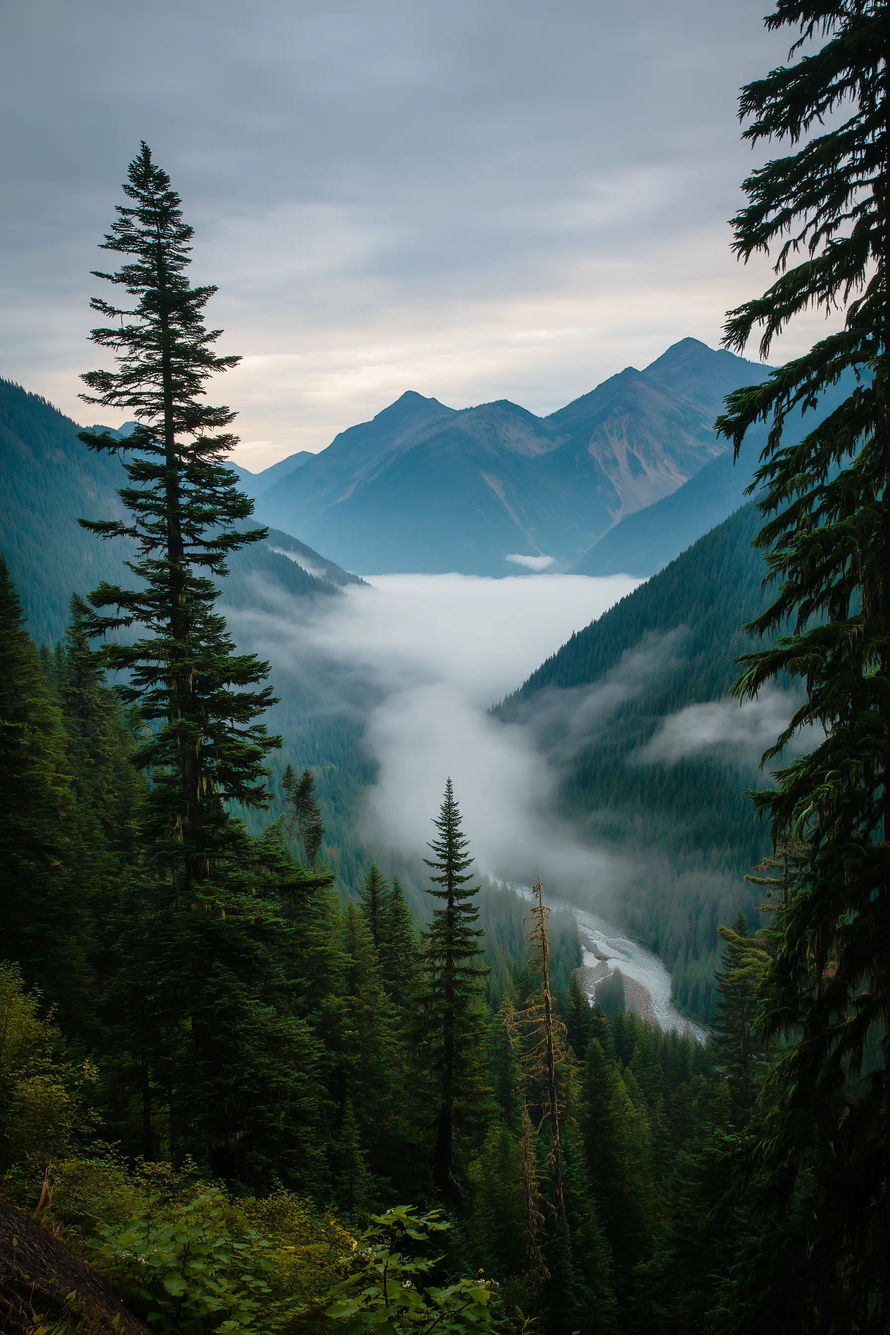
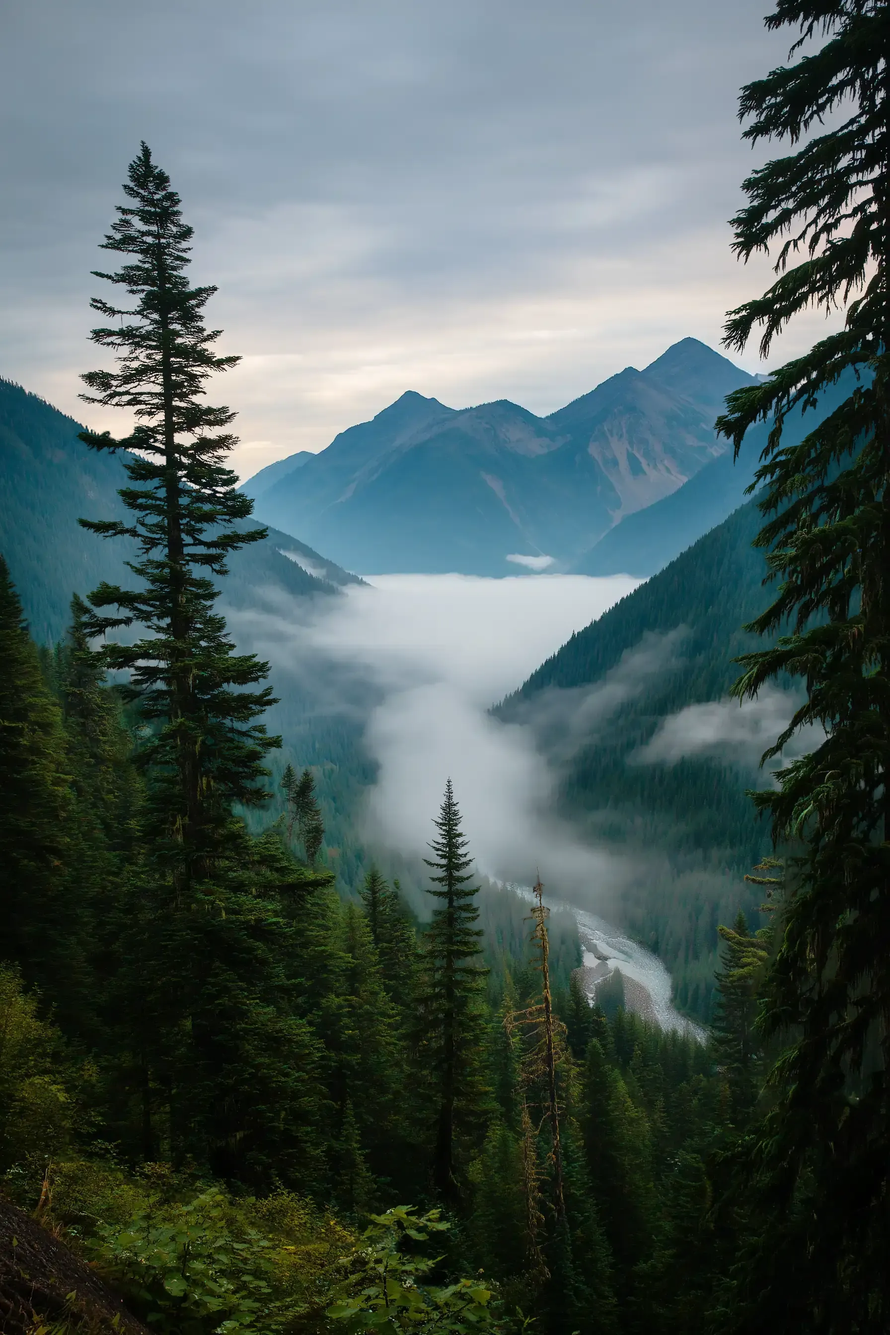
Flatten the overlook photo from its cutouts
valley.webp is now the far / mid / near cutouts stacked back together
(q80, 388 KB, still 1792x2688), so the first paint matches the layers
that replace it at rest and the swap doesn't show.

diff --git a/docs/ASSET-CREDITS.md b/docs/ASSET-CREDITS.md
@@ -4,7 +4,7 @@ Every image, video, sound and font in `public/` needs a row here before launch.
 
 | File | Source | Author | License | Status |
 | --- | --- | --- | --- | --- |
-| `public/images/valley.webp` | AI-generated with Midjourney (original `aerielmid.png`) | Site owner | Midjourney Terms of Service, paid plan (owner owns the output) | OK |
+| `public/images/valley.webp` | AI-generated with Midjourney (original `aerielmid.png`); now the far / mid / near cutouts below stacked back together, so the first paint matches the layers that replace it | Site owner | Midjourney Terms of Service, paid plan (owner owns the output) | OK |
 | `public/images/trail.webp` | AI-generated with Midjourney (original `alanrunningmid.png`) | Site owner | Midjourney Terms of Service, paid plan (owner owns the output) | OK |
 | `public/images/trail-depth.webp` | Depth map of `trail.webp`, made with `tools/depth-map.py` (Depth Anything V2 Base) | Site owner (derived) | Same as `trail.webp`; the model's output carries no extra terms | OK |
 | `public/images/valley-far.webp`, `valley-mid.webp`, `valley-near.webp` | Far / mid / near cutouts of `valley.webp` for the layered hero, made with `tools/hero-layers.py` (Depth Anything V2 Base for depth, ViTMatte for the cutouts). What the trees hid is repainted by the owner in Midjourney's Editor (plates in `tools/plates/`, not committed), blended with LaMa | Site owner (derived) | Same as `valley.webp` (Midjourney paid plan); ViTMatte and LaMa are Apache-2.0 and their output carries no extra terms | OK |
@@ -15,7 +15,7 @@ Every image, video, sound and font in `public/` needs a row here before launch.
 
 Both images were generated on a paid Midjourney plan, which allows commercial use. Per Midjourney's terms, a company with more than $1M a year in gross revenue needs the Pro or Mega plan; re-check the current terms if that changes. The originals carry the IPTC `trainedAlgorithmicMedia` tag, which marks them as AI-generated.
 
-Originals live outside the repo; the files here are WebP exports under the 400 KB budget (valley 1792×2688 at q62, the full original size; trail 2250×1500 at q54, downscaled from a 2688×1792 original to fit the budget). 1792 px is the largest Midjourney's 2× upscale gives, so `diveZoom` is set to 3 rather than 4.5 to limit how far the overlook gets magnified; a sharper overlook ≥ 3000 px wide would allow a deeper dive.
+Originals live outside the repo; the files here are WebP exports under the 400 KB budget (valley 1792×2688 at q80, the full original size, flattened from its cutouts; trail 2250×1500 at q54, downscaled from a 2688×1792 original to fit the budget). 1792 px is the largest Midjourney's 2× upscale gives, so `diveZoom` is set to 3 rather than 4.5 to limit how far the overlook gets magnified; a sharper overlook ≥ 3000 px wide would allow a deeper dive.
 
 ## Good free sources
 
